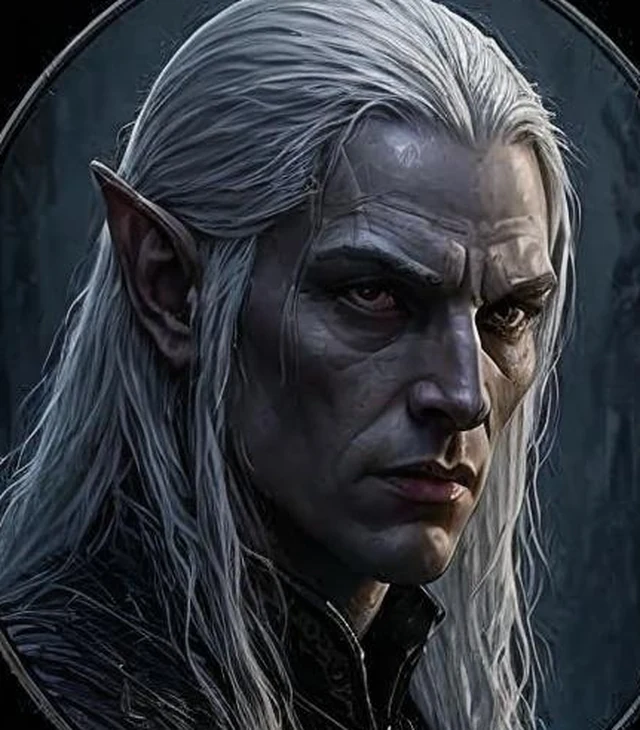
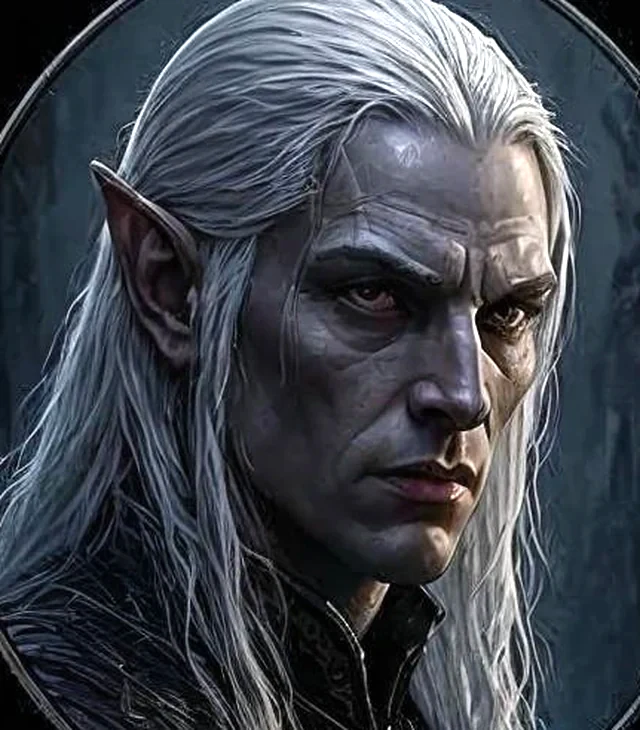
Withdraw Dread Overlord and Hooded Wraith (refunded), brighten Spectral King and Frost Elf Lord, no zoom cursor

diff --git a/src/persistence/migrations.ts b/src/persistence/migrations.ts
@@ -72,6 +72,9 @@ function repairTalents(faction: PlayableFaction, raw: unknown, deckName: string,
   return defaultBuild(faction);
 }
 
+/** Portraits once sold and later removed (0.27.4): id -> Gold refunded. */
+const WITHDRAWN_PORTRAITS: Record<string, number> = { iron_dread_overlord: 250, void_hooded_wraith: 150 };
+
 export function migrateSave(input: Raw): MigrationReport {
   const notes: string[] = [];
   let raw: Raw = { ...input };
@@ -96,6 +99,10 @@ export function migrateSave(input: Raw): MigrationReport {
   const backs = Array.isArray(p.cardBacks) ? p.cardBacks.filter((b: unknown) => typeof b === 'string' && getCardBack(b)) : [];
   p.cardBacks = [DEFAULT_CARD_BACK, ...new Set(backs.filter((b: string) => b !== DEFAULT_CARD_BACK))];
   if (!p.cardBacks.includes(p.cardBack)) p.cardBack = DEFAULT_CARD_BACK;
+  // Portraits taken out of the game: refund what they cost.
+  if (Array.isArray(p.portraits)) {
+    for (const id of new Set(p.portraits)) if (typeof id === 'string' && WITHDRAWN_PORTRAITS[id]) p.gold += WITHDRAWN_PORTRAITS[id];
+  }
   // Portraits: keep known ones; a faction choice must be an owned portrait of that faction.
   p.portraits = Array.isArray(p.portraits) ? [...new Set(p.portraits.filter((id: unknown) => typeof id === 'string' && getPortrait(id)))] : [];
   const fp: Record<string, string> = {};

diff --git a/tests/portraits.test.ts b/tests/portraits.test.ts
@@ -15,10 +15,21 @@ const rich = () => {
   return { ...s, profile: { ...s.profile, gold: 5000 } };
 };
 
+describe('withdrawn portraits', () => {
+  it('a bought portrait that left the game is refunded and dropped, together with its faction choice', () => {
+    const s = rich();
+    const profile = { ...s.profile, gold: 100, portraits: ['iron_dread_overlord', 'void_hooded_wraith', 'void_night_elf'], factionPortraits: { IRON: 'iron_dread_overlord' } };
+    const out = migrateSave({ ...s, saveVersion: CURRENT_SAVE_VERSION, profile }).save.profile;
+    expect(out.gold).toBe(100 + 250 + 150);
+    expect(out.portraits).toEqual(['void_night_elf']);
+    expect(out.factionPortraits.IRON).toBeUndefined();
+  });
+});
+
 describe('Warden portraits', () => {
-  it('has 27 portraits, at least two for every faction', () => {
-    expect(PORTRAITS).toHaveLength(27);
-    expect(new Set(PORTRAITS.map((p) => p.id)).size).toBe(27);
+  it('has 25 portraits, at least two for every faction', () => {
+    expect(PORTRAITS).toHaveLength(25);
+    expect(new Set(PORTRAITS.map((p) => p.id)).size).toBe(25);
     for (const f of PLAYABLE_FACTIONS) expect(PORTRAITS.filter((p) => p.faction === f).length).toBeGreaterThanOrEqual(2);
   });
 

diff --git a/src/data/portraits.ts b/src/data/portraits.ts
@@ -33,12 +33,10 @@ export const PORTRAITS: PortraitDef[] = [
   { id: 'ember_crimson_dragon', faction: 'EMBER', name: 'Crimson Dragon', price: 250 },
   { id: 'ember_fire_demon', faction: 'EMBER', name: 'Fire Demon', price: 250 },
   { id: 'verdant_forest_elf', faction: 'VERDANT', name: 'Forest Elf', price: 150 },
-  { id: 'iron_dread_overlord', faction: 'IRON', name: 'Dread Overlord', price: 250 },
   { id: 'astral_golden_eagle', faction: 'ASTRAL', name: 'Golden Eagle', price: 150 },
   { id: 'astral_starlit_elf', faction: 'ASTRAL', name: 'Starlit Elf', price: 150 },
   { id: 'void_shadow_tyrant', faction: 'VOID', name: 'Shadow Tyrant', price: 250 },
   { id: 'void_spectral_king', faction: 'VOID', name: 'Spectral King', price: 250 },
-  { id: 'void_hooded_wraith', faction: 'VOID', name: 'Hooded Wraith', price: 150 },
   { id: 'tide_frost_elf_lord', faction: 'TIDE', name: 'Frost Elf Lord', price: 150 },
 ];
 

diff --git a/src/data/patchNotes.ts b/src/data/patchNotes.ts
@@ -19,6 +19,23 @@ export interface PatchNote {
 
 export const PATCH_NOTES: PatchNote[] = [
   {
+    version: '0.27.4',
+    date: '2026-10-08',
+    title: 'Portrait touch-ups',
+    summary: 'Two portraits leave the Shop, two get brighter.',
+    sections: [
+      {
+        kind: 'balance',
+        items: [
+          'The Dread Overlord and Hooded Wraith portraits have been withdrawn. If you bought one, its Gold has been refunded.',
+          'The Spectral King and Frost Elf Lord portraits are brighter.',
+        ],
+      },
+      { kind: 'fixed', items: ['Hovering a portrait in the Shop shows the normal pointer again instead of a magnifier.'] },
+    ],
+    commits: [],
+  },
+  {
     version: '0.27.3',
     date: '2026-10-08',
     title: 'Card names in patch notes',

diff --git a/src/i18n/cs/data/patchNotes.ts b/src/i18n/cs/data/patchNotes.ts
@@ -1,6 +1,17 @@
 import type { PatchNotesOverlay } from '../../overlayTypes';
 
 const notes: PatchNotesOverlay = {
+  '0.27.4': {
+    title: 'Úpravy portrétů',
+    summary: 'Dva portréty odcházejí z obchodu, dva jsou světlejší.',
+    sections: [
+      [
+        'Portréty Děsivý vládce a Zakuklený přízrak byly staženy. Pokud sis některý koupil, zlato ti bylo vráceno.',
+        'Portréty Přízračný král a Mrazivý elfí pán jsou světlejší.',
+      ],
+      ['Kurzor nad portrétem v obchodě je zase normální šipka místo lupy.'],
+    ],
+  },
   '0.27.3': {
     title: 'Názvy karet v poznámkách k verzi',
     summary: 'Názvy karet v poznámkách k verzi jsou zvýrazněné a portréty jde zobrazit ve velkém.',

diff --git a/src/i18n/cs/ui/portraits.ts b/src/i18n/cs/ui/portraits.ts
@@ -26,12 +26,10 @@ const d: Record<string, string> = {
   'Crimson Dragon': 'Karmínový drak',
   'Fire Demon': 'Ohnivý démon',
   'Forest Elf': 'Lesní elfka',
-  'Dread Overlord': 'Děsivý vládce',
   'Golden Eagle': 'Zlatý orel',
   'Starlit Elf': 'Hvězdná elfka',
   'Shadow Tyrant': 'Stínový tyran',
   'Spectral King': 'Přízračný král',
-  'Hooded Wraith': 'Zakuklený přízrak',
   'Frost Elf Lord': 'Mrazivý elfí pán',
   'Flameborn Duelist': 'Ohněm zrozená duelantka',
   'Black Drake': 'Černý drak',

diff --git a/src/ui/styles/portraitInspector.css b/src/ui/styles/portraitInspector.css
@@ -8,4 +8,4 @@
 .portrait-inspector-faction { font-size: var(--t-sm); font-weight: 700; color: var(--fc); }
 /* Portraits that open large on right-click / long press. */
 .portrait-tile-art, .portrait-option { -webkit-touch-callout: none; user-select: none; }
-.portrait-tile-art { display: inline-block; cursor: zoom-in; }
+.portrait-tile-art { display: inline-block; }
